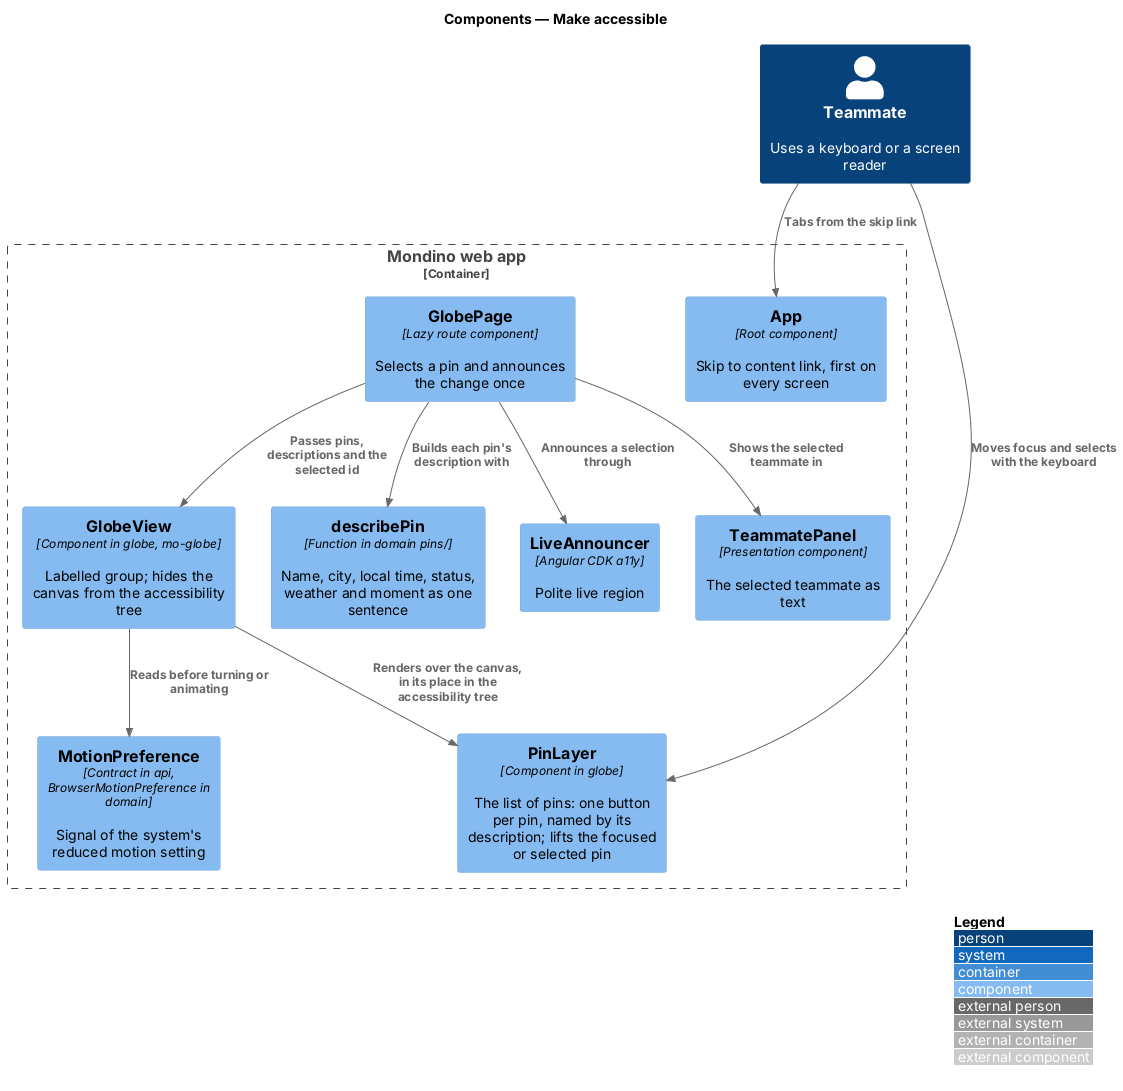
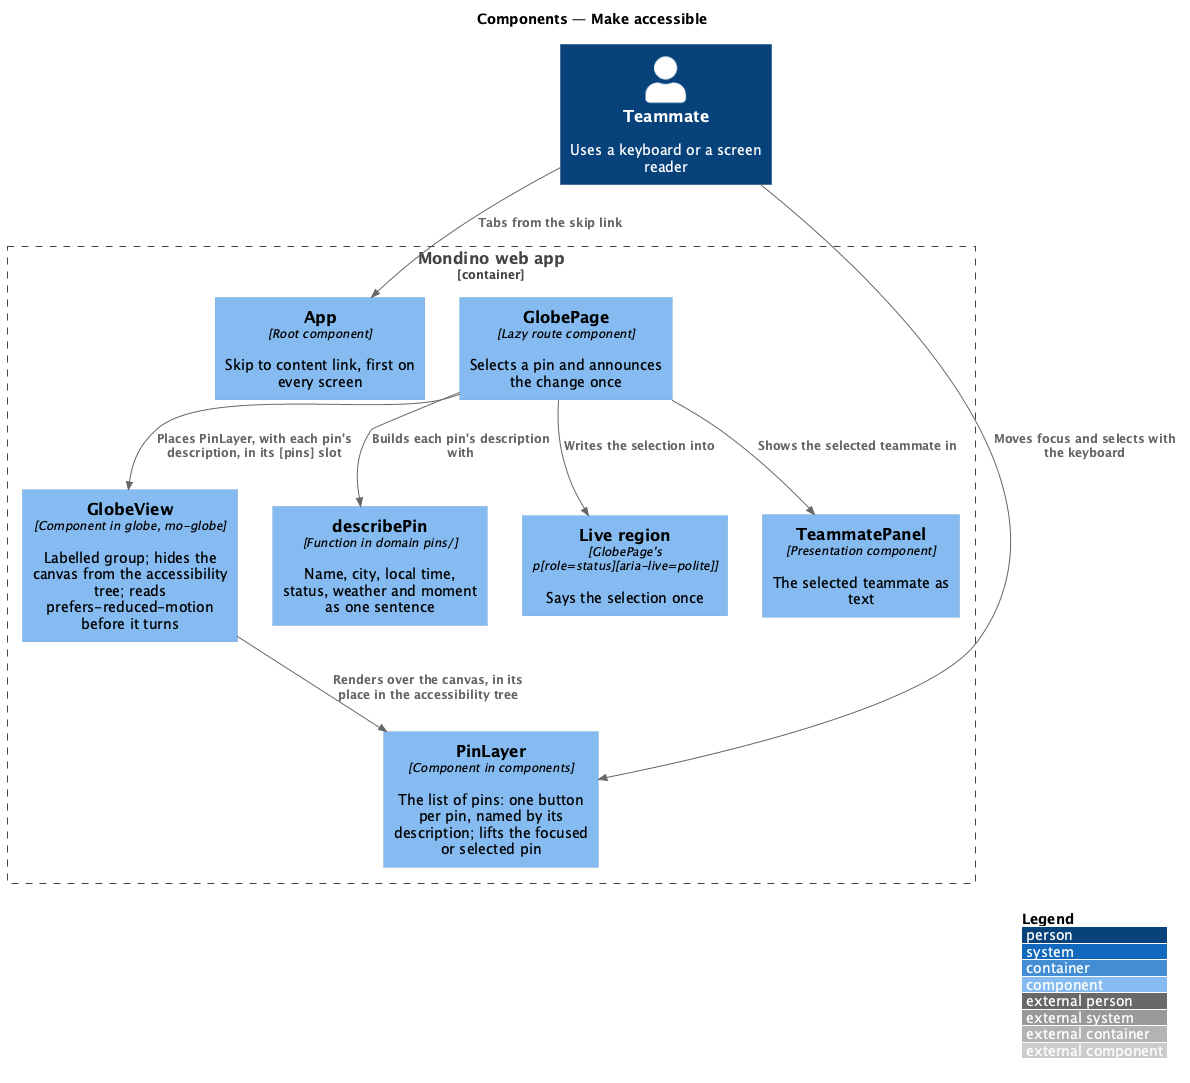
Bring the accessibility design in line with what the screens built
The Globe announces a selection in the live region its mocks draw, and the
globe reads reduced motion where it moves; ADR 0029 records both and how the
specs measure every screen.

diff --git a/docs/detailed-designs/platform/make-accessible/README.md b/docs/detailed-designs/platform/make-accessible/README.md
@@ -64,10 +64,11 @@ pin's city, time zone, weather and moments, which the text equivalent reads.
 
 **The globe's text equivalent (L2-040).**
 
-- **`GlobeView`** (`mo-globe`) — the host element has `role="group"` and an accessible name
-  from its input `label`. The canvas inside it carries `aria-hidden="true"`. `PinLayer`'s
-  list of pins is drawn over the canvas and stands in its place in the accessibility tree.
-- **`PinLayer`** — component in `globe` (`show-pins`). The pins it draws are the list: the
+- **`GlobeView`** (`mo-globe`) — its `.globe` element has `role="group"` and an accessible
+  name from its input `label`. The canvas inside it carries `aria-hidden="true"`. `PinLayer`'s
+  list of pins is drawn over the canvas, in `GlobeView`'s `[pins]` slot, and stands in its
+  place in the accessibility tree.
+- **`PinLayer`** — component in `components` (`show-pins`). The pins it draws are the list: the
   mocks' `ul.globe__pins` with one `li.globe__pin` per pin, each holding a `button.pin`. A
   button's accessible name is the pin's description, and the visible label beside it is
   `aria-hidden`, so a pin is read once. The button carries `aria-pressed`, which is true for
@@ -83,18 +84,20 @@ pin's city, time zone, weather and moments, which the text equivalent reads.
   is not dragged. The legend says why it is still, in words: "Still view — 3D isn’t available
   in this browser"; on a phone a line under the globe reads the same and adds "Pins still
   open."
-- **`describePin(pin, now, settings)`** — function in `domain`'s `pins/`. It returns one
-  sentence: the teammate's name, city, local time, status, weather and any moment this week,
+- **`describePin(name, cityName, localTime, status, weather, marker)`** — function in
+  `domain`'s `pins/`, which `pinViews` calls for each pin. It returns one sentence: the teammate's name, city, local time, status, weather and any moment this week,
   as in "Tomás Herrera, Mexico City, 08:05, Early morning, Partly cloudy 22°, 2 moments this
-  week: Día de Muertos, in 5 days; Clásico Nacional, in 6 days". It calls `localTime`, `formatTime` and `statusFor` from `time/`. It leaves the
-  status out when `statusFor` gives none, and the weather out when the pin has none. `globe` depends on `api` only, so `GlobePage` computes
-  the descriptions and passes them to `GlobeView` as the input `descriptions`, keyed by
-  teammate id.
-- **Selection is announced once.** `GlobePage` calls the CDK `LiveAnnouncer` with politeness
-  `polite` when the selected teammate id changes, whether the selection came from a tap, a
-  click or the keyboard. The message is the selected teammate's name and city and the word
-  "selected", as in "Tomás Herrera, Mexico City, selected.".
-  `TeammatePanel` is not itself a live region.
+  week: Día de Muertos, in 5 days; Clásico Nacional, in 6 days". `pinViews` works out the local time and status from `time/`. It leaves the
+  status out when there is none to show, and the weather out when the pin has none. `globe`
+  depends on `api` only, so `GlobePage` builds the pin views and their placements and hands
+  them to `PinLayer` in `GlobeView`'s `[pins]` slot; each placement carries its description.
+- **Selection is announced once.** `GlobePage` holds the mocks' polite live region,
+  `p.visually-hidden[role=status][aria-live=polite]`, in the page before anything is
+  selected. Its text is the selected teammate's name and city and the word "selected", as in
+  "Tomás Herrera, Mexico City, selected.", and changes when the selected teammate id changes,
+  whether the selection came from a tap, a click, the keyboard or the address. A group's is
+  its title ("2 teammates close together."). `TeammatePanel` is not itself a live region
+  (ADR 0029).
 - **A minute tick is silent.** The descriptions and the panel update in place when the clock
   ticks. Neither is inside a live region, and `GlobePage` announces only a change of selection.
 - **A toast is announced once.** `Toast` sits in the mocks' `toast-region`. A toast that
@@ -131,22 +134,25 @@ pin's city, time zone, weather and moments, which the text equivalent reads.
 - Sizes are in `rem` and layouts are fluid (`adapt-to-every-width`, L2-037), so text at 200%
   reflows at 1280 px wide with no sideways scrolling.
 - Times and temperatures use `font-variant-numeric: tabular-nums`, set by a foundation utility.
+- The behaviour specs measure every screen, in light and dark: the focus ring's contrast,
+  every touch target, the contrast of each line of text over its painted background, the
+  figures of each time and temperature, and 200% text as the root font size at 200% (ADR 0029).
 - An axe sweep with the WCAG 2.2 AA rules covers every screen in every state. Like the visual
   and responsive sweeps, it is kept current and runs only when a person asks.
 
 **Reduced motion (L2-042).**
 
-- **`MotionPreference`** / `MOTION_PREFERENCE` — contract and injection token in `api`, with
-  one member, the signal `reduced`.
-- **`BrowserMotionPreference`** — implementation in `domain`. It reads
-  `matchMedia('(prefers-reduced-motion: reduce)')`, listens for its `change` event, so the app
-  follows the setting without a reload, and removes the listener when destroyed.
-- `GlobeView` reads `reduced`. When it is true the globe does not turn on its own, a selected
-  pin is shown facing the viewer with no animated turn, a lifted pin moves to its lifted place
-  with no animation, and a newly placed pin does not pulse.
-- The panel's fade and every other CSS transition sit inside
-  `@media (prefers-reduced-motion: no-preference)`, so they are absent when reduced motion is
-  requested.
+- **`GlobeView`** reads `matchMedia('(prefers-reduced-motion: reduce)')` and gives it to
+  `GlobeMotion`, and listens for its `change` event, so the globe follows the setting without
+  a reload, until the view is destroyed. When it is true the globe does not turn on its own
+  and a selected pin is shown facing the viewer with no animated turn. There is no
+  `MotionPreference` token: the globe is the only code that moves something with script
+  (ADR 0029).
+- Every other motion is CSS, and CSS follows the setting by itself. The tokens set every
+  `--duration-*` to 0.01 ms under `prefers-reduced-motion: reduce`, so the panel's fade, a
+  dialog's and a toast's entrance and a lifted pin's growth happen at once; each animation
+  that repeats or pulses (a new pin's pulse, the shimmer of a skeleton and of the globe's
+  placeholder) is `animation: none` there, in its own component's stylesheet.
 - No animation repeats faster than three times in a second. The pulse of a newly placed pin
   runs once.
 
@@ -182,16 +188,16 @@ data the text equivalent reads.
 
 `GlobeView` renders `PinLayer`'s list of pin buttons over the canvas, which it hides from the
 accessibility tree. `GlobePage` builds each description with `describePin`, announces a selection
-through `LiveAnnouncer` and shows the teammate in `TeammatePanel`. `GlobeView` reads
-`MotionPreference` before it turns or animates.
+in its own polite live region and shows the teammate in `TeammatePanel`. `GlobeView` reads the
+reduced motion setting before it turns.
 
 ![C4 component view for making Mondino accessible](diagrams/c4-component.png)
 
 ### Class structure
 
-`GlobeView` composes `PinLayer` and depends on `MotionPreference`, which
-`BrowserMotionPreference` implements. `PinLayer` renders one button per pin. `GlobePage`
-depends on `describePin` and on the CDK `LiveAnnouncer`.
+`GlobePage` renders `GlobeView` with `PinLayer` in its `[pins]` slot. `PinLayer` renders one
+button per pin. `GlobeView` reads the reduced motion setting and gives it to `GlobeMotion`.
+`GlobePage` depends on `describePin`, through `pinViews`, and holds its own live region.
 
 ![Class diagram for making Mondino accessible](diagrams/class-structure.png)
 
@@ -200,7 +206,7 @@ depends on `describePin` and on the CDK `LiveAnnouncer`.
 The teammate tabs past the skip link to the pins. Each pin's button is a Tab stop; `PinLayer`
 lifts the focused pin and shows its focus indicator (L2-039), and Enter or Space selects it. `GlobeView` turns to
 the pin, or shows it with no animated turn when reduced motion is requested (L2-042).
-`GlobePage` shows the teammate in `TeammatePanel` and announces the change once through a
+`GlobePage` shows the teammate in `TeammatePanel` and announces the change once in its
 polite live region (L2-040). A minute tick is not announced.
 
 ![Sequence diagram for selecting a pin by keyboard](diagrams/sequence-select-pin-by-keyboard.png)

diff --git a/docs/adr/0029-accessibility-as-the-mocks-draw-it.md b/docs/adr/0029-accessibility-as-the-mocks-draw-it.md
@@ -1,0 +1,56 @@
+# 0029: The Globe announces a selection in its own live region, motion is read where it moves, and the specs measure what a sweep would
+
+**Status:** Accepted (journey 28, Make accessible). Replaces the `LiveAnnouncer` and the
+`MotionPreference` contract that `make-accessible` drew.
+
+## Context
+
+`make-accessible` drew two parts that were never built, because the screens built before it
+did the same thing another way:
+
+- `GlobePage` was to announce a selection through the CDK `LiveAnnouncer`. The mocks
+  (`pages/globe/default`, `selected`) draw the announcement as the page's own
+  `p.visually-hidden[role=status][aria-live=polite]`, empty until something is selected and
+  then "Tomás Herrera, Mexico City, selected.", and journey 14 built it that way.
+- `GlobeView` was to read a `MotionPreference` signal from a token in `api`, bound to a
+  `BrowserMotionPreference` in `domain`. `GlobeView` reads
+  `matchMedia('(prefers-reduced-motion: reduce)')` itself, gives it to `GlobeMotion` and follows
+  its `change` event until it is destroyed (journey 9). Every other motion is CSS: the tokens
+  set every `--duration-*` to 0.01 ms under `prefers-reduced-motion: reduce`, and each
+  animation that repeats or pulses is set to `none` there in its own stylesheet.
+
+L2-039 to L2-042 also ask for measurements a person usually makes with a tool: focus rings
+and text against their backgrounds, 200% text, touch targets on every screen. AGENTS.md runs
+the axe sweep only when a person asks.
+
+## Decision
+
+- **The page's live region announces a selection.** It is in the page before anything is
+  selected, so the first change is read; its text changes only with the selection (or the
+  group, or "Loading your team…"), never with the minute. `LiveAnnouncer` is not used: its
+  region is made on the first call, outside `main`, and a first announcement can be lost.
+- **No `MOTION_PREFERENCE` token.** The globe is the only code that moves something with
+  script, so it reads the media query where it moves; CSS follows the setting by itself, live.
+  A second consumer in script would bring the token.
+- **Reduced motion is expressed once in the tokens and once per repeating animation.** A
+  transition or one-off animation reads a `--duration-*` token and so lasts 0.01 ms under
+  reduced motion; an animation that repeats or pulses (the new pin's pulse, the shimmer of a
+  skeleton or the globe's placeholder) is `animation: none` in a
+  `@media (prefers-reduced-motion: reduce)` block in its component's stylesheet.
+- **The behaviour specs measure every screen.** One spec walks each screen with Tab and
+  measures the focus ring's contrast, the touch targets, the contrast of each line of text
+  and the figures of each time and temperature, in light and dark, and reads the motion under
+  each setting. Browser text at 200% is the root font size at 200%, which is what the
+  browser's setting changes, since every size is in `rem`. The axe sweep stays written for
+  every screen in every state and runs when a person asks.
+
+## Consequences
+
+- The announcement is the mocks' element and its words, and a spec reads it directly.
+- A spec proves reduced motion by reading the computed durations and the running animations
+  of each screen, which is what a person would see; a new animation that ignores the tokens
+  fails it.
+- The contrast a spec measures is the text's colour over the nearest painted background; text
+  over a picture or a gradient is left to the sweep and to the design system's contrast pairs.
+- Rejected: `LiveAnnouncer` beside the page's region (two regions could read the same change
+  twice), and a token with one consumer.

diff --git a/docs/adr/README.md b/docs/adr/README.md
@@ -36,5 +36,6 @@ Playwright, WCAG) needs a record here that gives its reason.
 | [0026](0026-one-breaker-for-every-outside-source.md) | Every outside source has one kind of breaker, an older answer is given while it fails, and two sources in a row share one 6-second deadline | Accepted; completes 0015 and 0019 |
 | [0027](0027-breakpoints-where-the-mocks-break.md) | The layouts change where the mocks do, at breakpoints one Sass module names, and the Globe's globe fills its stage | Accepted |
 | [0028](0028-an-ended-session-on-profile.md) | A store that is refused with 401 forgets the team, and its screen says an invite link is needed; there is no interceptor | Accepted; replaces the design's `sessionExpiredInterceptor` |
+| [0029](0029-accessibility-as-the-mocks-draw-it.md) | The Globe announces a selection in its own live region, motion is read where it moves, and the specs measure what a sweep would | Accepted; replaces the design's `LiveAnnouncer` and `MotionPreference` |
 
 Not decided yet: nothing a journey has reached.
